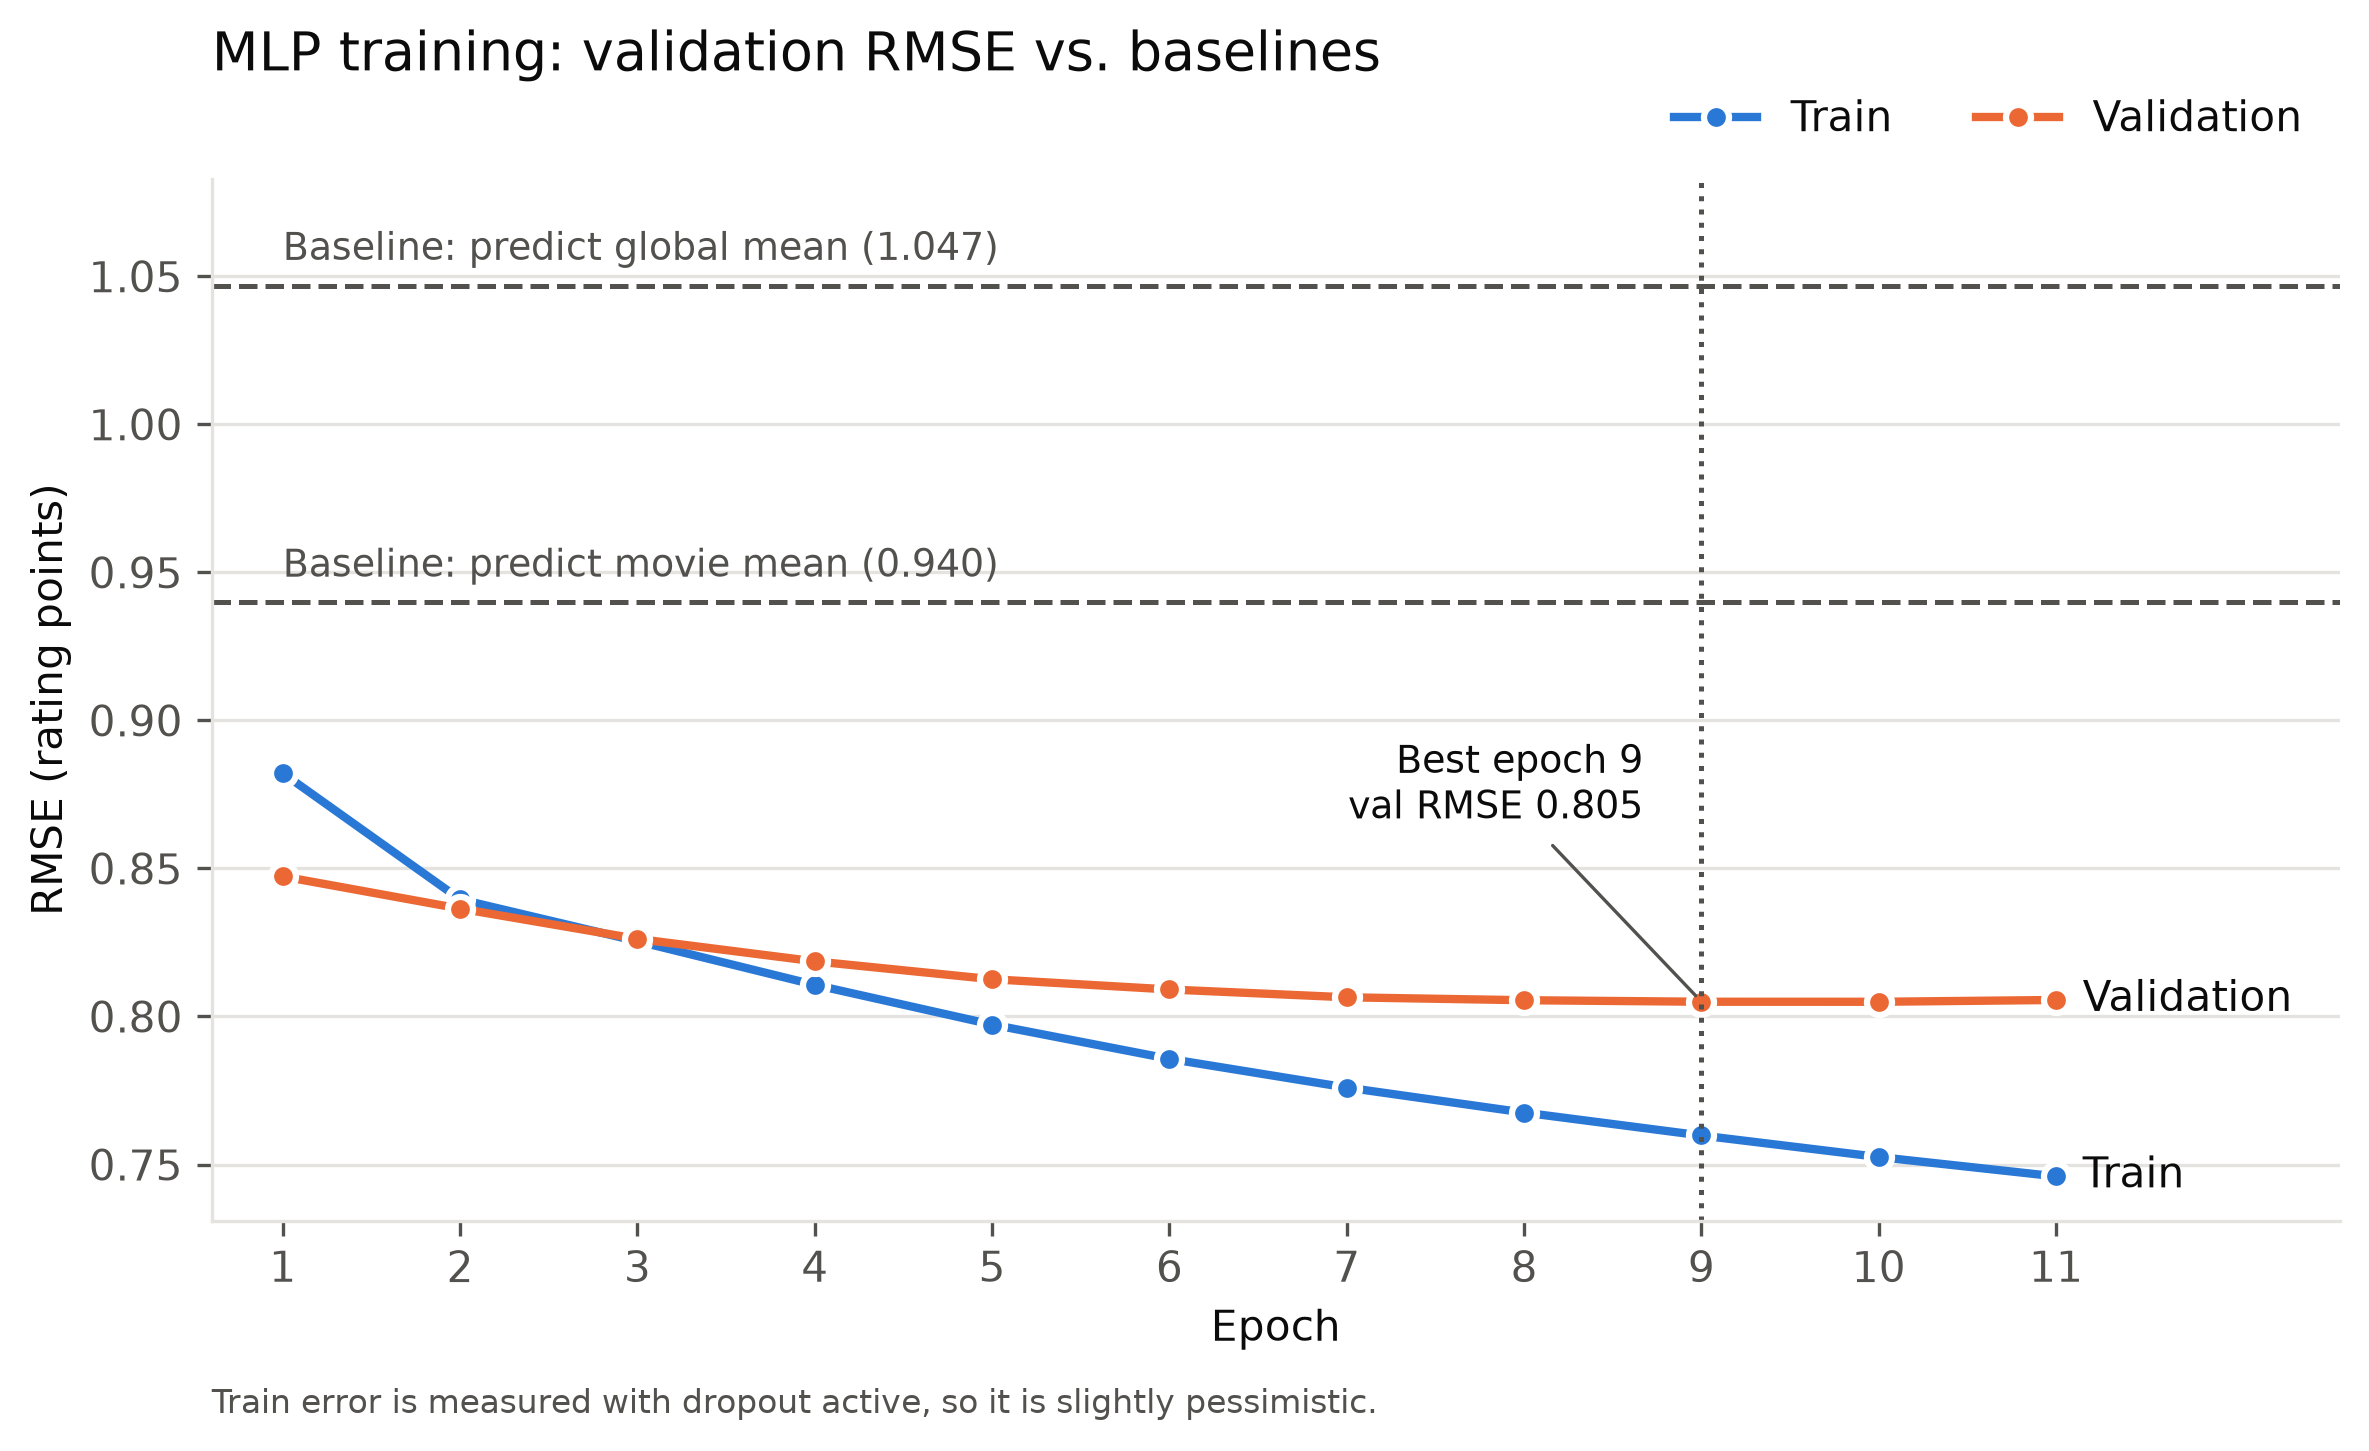
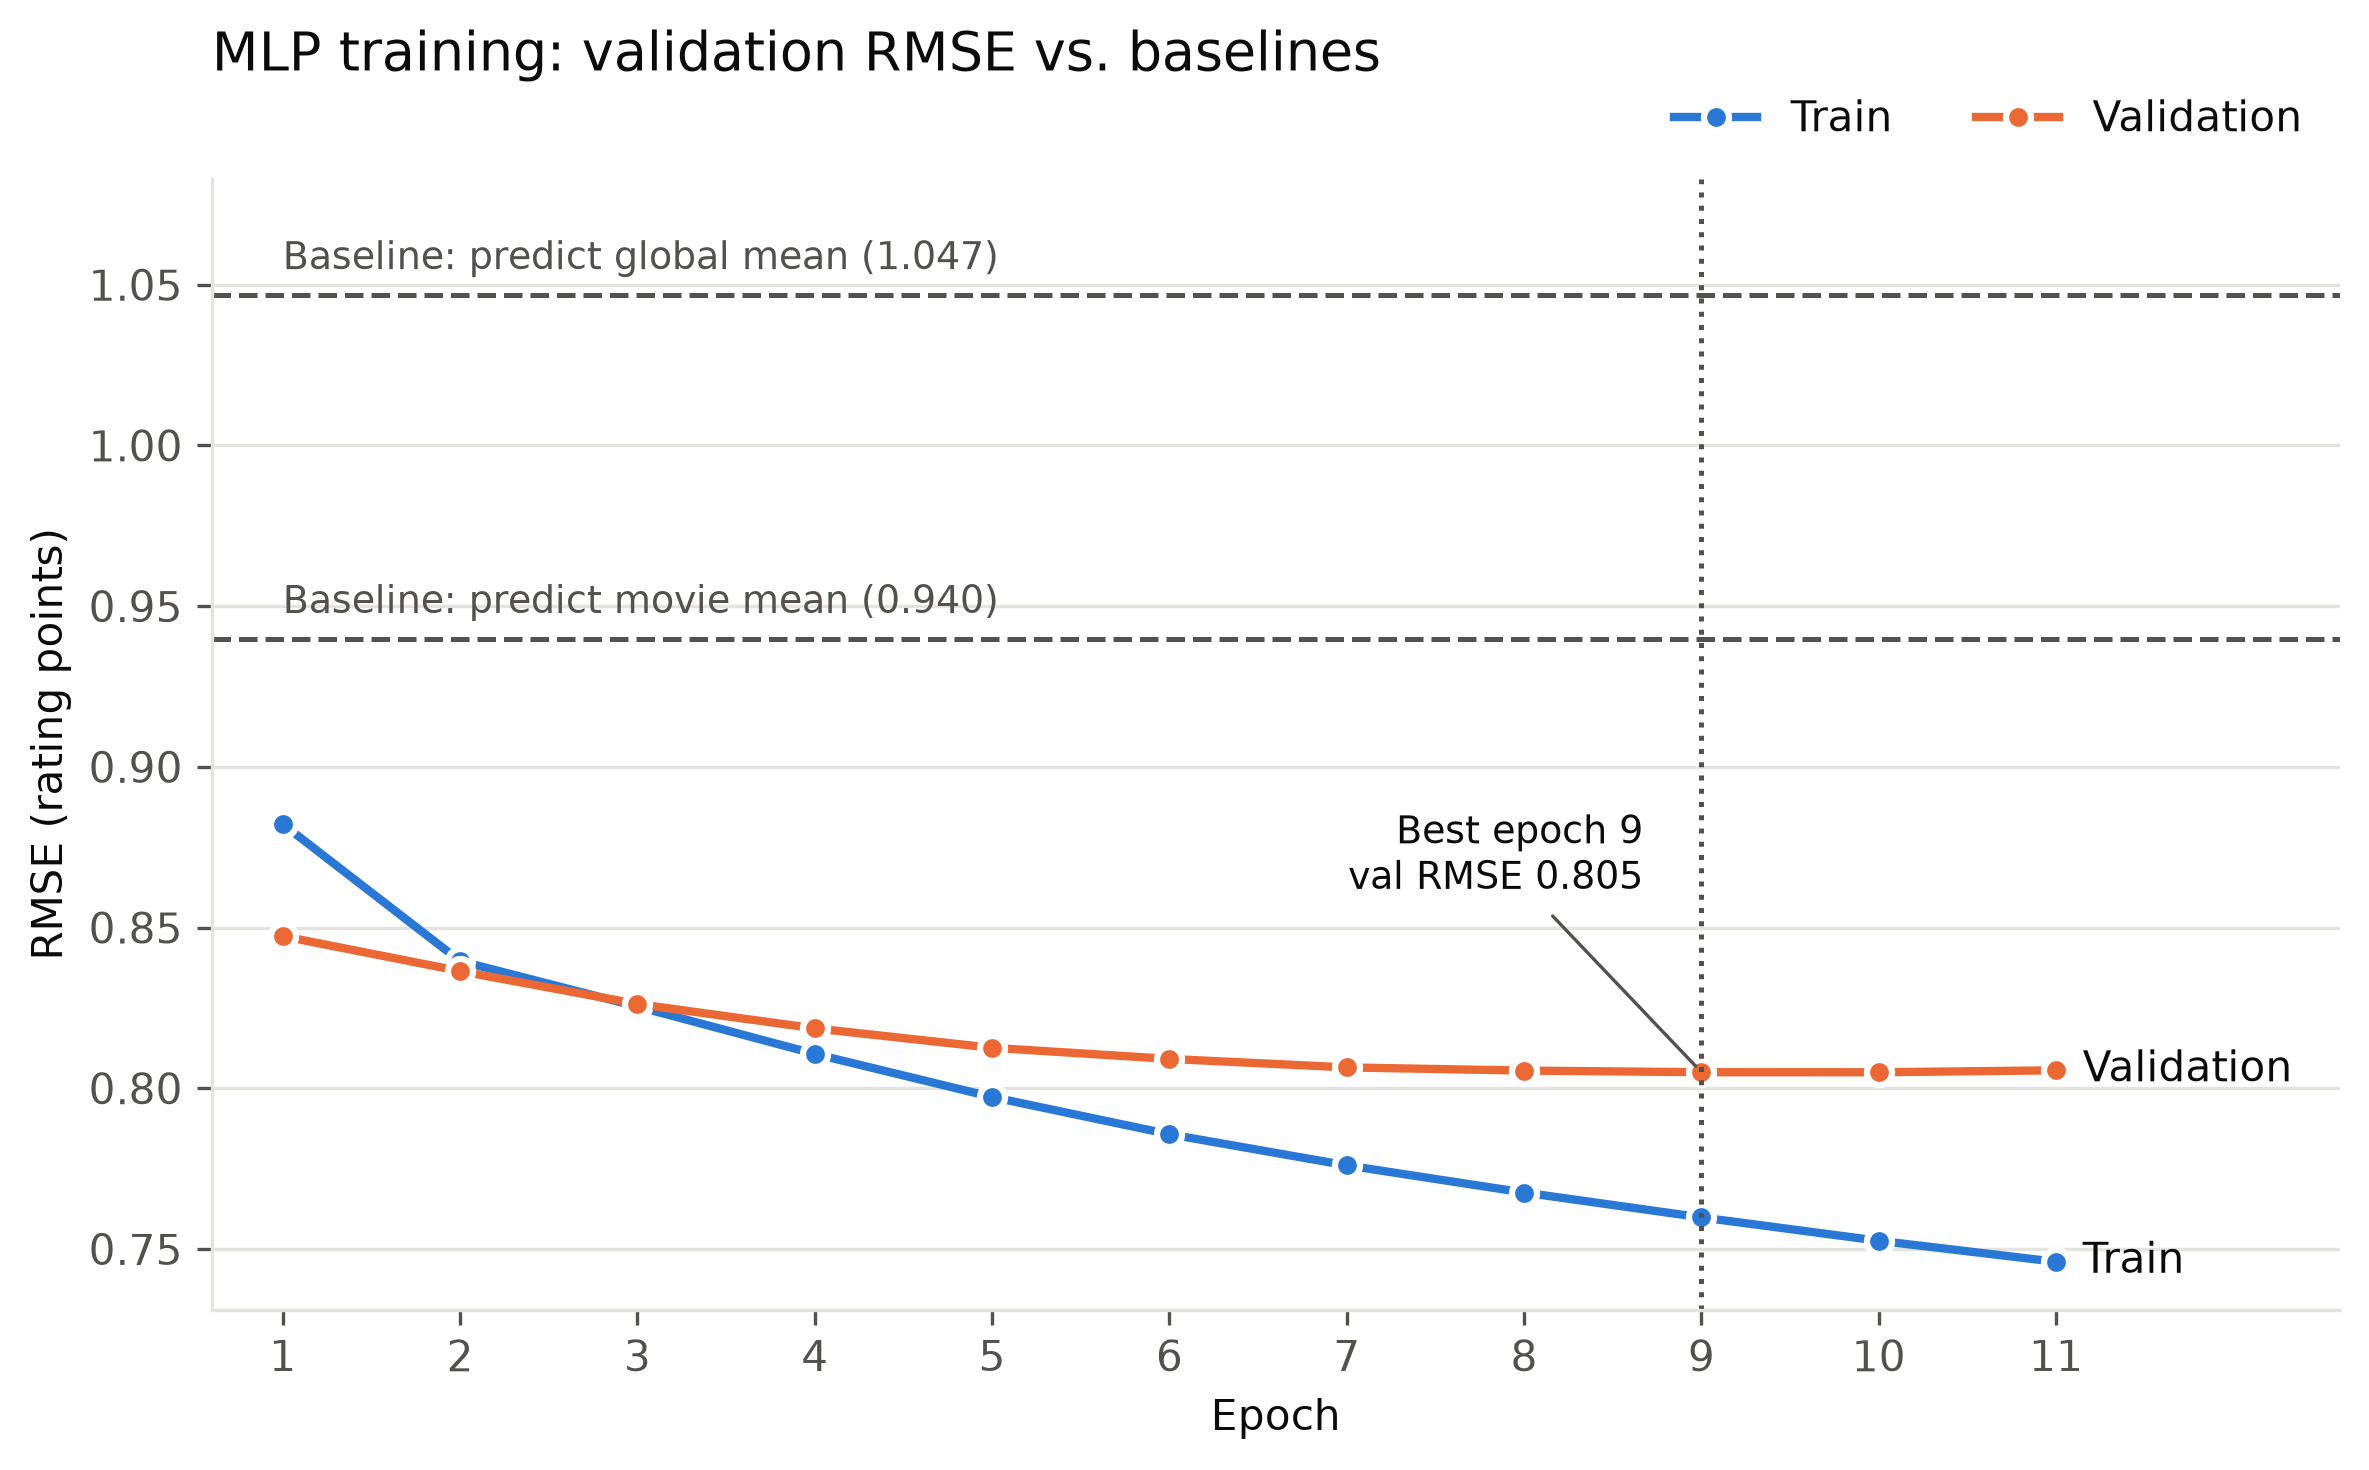
update MLP plots

diff --git a/MLP/mlp_plots.py b/MLP/mlp_plots.py
@@ -57,8 +57,6 @@ def plot_curves(ep, train, val, baselines, best_epoch, metric, out_path):
     ax.tick_params(colors=MUTED)
     ax.set_title(f"MLP training: validation {metric} vs. baselines", color=INK, loc="left", fontsize=13, pad=26)
     ax.legend(frameon=False, loc="lower right", bbox_to_anchor=(1, 1.0), ncol=2, labelcolor=INK)
-    ax.annotate("Train error is measured with dropout active, so it is slightly pessimistic.",
-                xy=(0, -0.16), xycoords="axes fraction", color=MUTED, fontsize=8, ha="left", va="top")
 
     fig.tight_layout()
     fig.savefig(out_path, dpi=300, bbox_inches="tight", facecolor="white")
